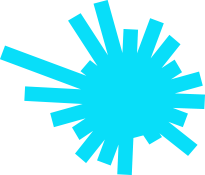
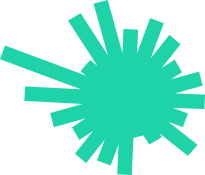
image 7 has been changed

diff --git a/src/less/adapt.less b/src/less/adapt.less
@@ -4072,7 +4072,7 @@ body {
 }
 
 .b-50 {
-    background: @odi-color-six;
+    background: #1DD3A7;
 }
 
 .b-30 {

diff --git a/src/theme/adapt-contrib-vanilla/less/theme.less b/src/theme/adapt-contrib-vanilla/less/theme.less
@@ -32,7 +32,7 @@
 }
 
 .b-50 {
-    background: @odi-color-six;
+    background: #1DD3A7;
 }
 
 .b-30 {
